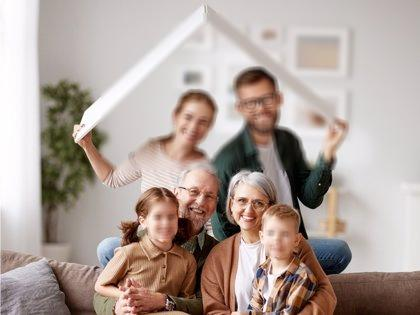
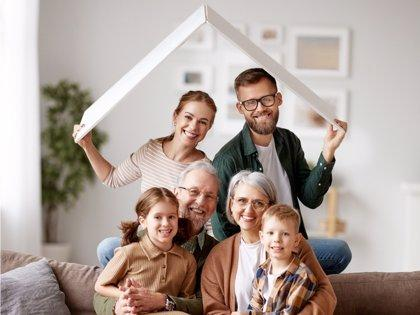
FINISH

diff --git a/django_faces/templates/django_faces_app/panel_imagenes.html b/django_faces/templates/django_faces_app/panel_imagenes.html
@@ -7,17 +7,13 @@
     <title>Panel de imagenes</title>
     <style>
         body {
-            padding-top: 5%;
+            padding-top: 3%;
+            font-family: Arial, sans-serif;
         }
         .row {
             display: flex;
             flex-wrap: wrap;
             justify-content: center;
-        }
-        .thumbnail {
-            display: flex;
-            flex-direction: column;
-            align-items: center;
         }
         .thumbnail a {
             display: flex;
@@ -25,50 +21,100 @@
             align-items: center;
             text-decoration: none;
         }
+        .thumbnail {
+            display: flex;
+            flex-direction: column;
+            align-items: center;
+            border: 1px solid #dddddd;
+            border-radius: 5px;
+            box-shadow: 0 2px 4px rgba(0, 0, 0, 0.1);
+            margin: 10px;
+            padding: 10px;
+            transition: transform 0.2s ease;
+          }
+        
+        .thumbnail:hover {
+        transform: translateY(-5px);
+        box-shadow: 0 5px 10px rgba(0, 0, 0, 0.2);
+        }
+        .caption {
+        margin-top: 6px;
+        margin-bottom: 6px;
+        }
         .thumbnail img {
-            width: 500px;
+            width: 550px;
             height: auto;
+            margin-top:8px;
         }
         .caption p {
-            font-size: 24px;
-            margin-top: 16px;
+            font-size: 28px;
+            
         }
         .button-back {
             display: inline-block;
-            background-color: #0046c8;
-            color: #ffffff;
-            border-radius: 8px;
-            padding: 12px 24px;
+            margin-top: 5px;
+            padding: 10px 20px;
+            background-color: #fff;
+            border: 2px solid #4CAF50;
+            border-radius: 4px;
+            color: #4CAF50;
             font-size: 20px;
-            text-align: center;
+            font-weight: bold;
             text-decoration: none;
-            margin-top: 16px;
+            transition: background-color 0.3s ease, color 0.3s ease;
         }
+        .button-back:hover{
+            background-color: #4CAF50;
+            color: #fff;
+        }
+        .row {
+            display: flex;
+            flex-wrap: wrap;
+            justify-content: center;
+        }
+        
+        .col-md-4 {
+            flex: 0 0 33.33%;
+            max-width: 33.33%;
+            padding: 0 15px;
+        }
+        h1 {
+            font-size: 46px;
+            margin-top: 40px;
+            margin-bottom: 20px;
+        }
+        
     </style>
 </head>
 <body>
     <div class="container">
         <div class="row">
-            <a class="button-back" href="{% url 'index' %}">&lt; Volver al inicio</a>
+            <h1>PANEL DE IMAGENES</h1>
+        </div>
+        <div class="row">
+            <a class="button-back" href="{% url 'index' %}">&lt;- Volver al inicio</a>
         </div>
         <br>
-        {% for imagen in imagenes %}
         <div class="row">
+            {% for imagen in imagenes %}
             <div class="col-md-4">
                 <div class="thumbnail">
                     <a href="../imagen/{{ imagen.id }}">
+                        <div class="caption">
+                            <p>La imagen número <b>{{ imagen.id }}</b></p>
+                        </div>
+                        <img src="{{ imagen.archivo.url }}" alt="img">
+                        <p>IMAGEN NORMAL</p>
                         {% if imagen.archivoBlur %}
                         <img src="{{ imagen.archivoBlur.url }}" alt="img">
+                        <p>IMAGEN BLUR</p>
                         {% endif %}
-                        <img src="{{ imagen.archivo.url }}" alt="img">
-                        <div class="caption">
-                            <p>{{ imagen.id }}</p>
-                        </div>
                     </a>
                 </div>
             </div>
+            {% endfor %}
         </div>
-        {% endfor %}
     </div>
+    
 </body>
 </html>

diff --git a/django_faces/templates/django_faces_app/imagen.html b/django_faces/templates/django_faces_app/imagen.html
@@ -7,20 +7,106 @@
     <script src="https://code.jquery.com/jquery-3.6.0.min.js"></script> <!-- JCROP IMPORTACIÓN-->
     <link rel="stylesheet" href="https://unpkg.com/jcrop/dist/jcrop.css"/>
     <script src="https://unpkg.com/jcrop"></script>
-    <title>Document</title>
+    <title>Imagen</title>
+    <style>
+      body {
+        padding-top: 5%;
+        font-family: Arial, sans-serif;
+      }
+      #target {
+          width: auto;
+          height: auto;
+      }
+      #blur {
+          display: inline-block;
+          margin-top: 20px;
+          background-color: #fff;
+          border: 2px solid #4CAF50;
+          border-radius: 4px;
+          color: #4CAF50;
+          font-size: 20px;
+          font-weight: bold;
+          text-decoration: none;
+          transition: background-color 0.3s ease, color 0.3s ease;
+      }
+      #blur:hover {
+          background-color: #4CAF50;
+          color: #fff;
+          cursor:pointer;
+      }
+      .row {
+        display: flex;
+        flex-wrap: wrap;
+        justify-content: center;
+      }
+      .col-md-4 {
+        flex: 0 0 95.33%;
+        max-width: 95.33%;
+        padding: 0 15px;
+      }
+
+      .thumbnail {
+        display: flex;
+        flex-direction: column;
+        align-items: center;
+        border: 1px solid #dddddd;
+        border-radius: 5px;
+        box-shadow: 0 2px 4px rgba(0, 0, 0, 0.1);
+        margin: 10px;
+        padding: 10px;
+        transition: transform 0.2s ease;
+      }
+      p{
+        padding: 0px 15px 0px 15px;
+      }
+      h1{
+        margin-top:-40px
+      }
+      .button-back {
+        display: inline-block;
+        margin-top: 5px;
+        padding: 10px 20px;
+        background-color: #fff;
+        border: 2px solid #4CAF50;
+        border-radius: 4px;
+        color: #4CAF50;
+        font-size: 20px;
+        font-weight: bold;
+        text-decoration: none;
+        transition: background-color 0.3s ease, color 0.3s ease;
+    }
+    .button-back:hover{
+        background-color: #4CAF50;
+        color: #fff;
+    }
+    </style>
 </head>
+
 <body>
-    {% if imagen.archivoBlur %}
-      <img src="{{ imagen.archivoBlur.url }}" />
-      <br>
-      <br>
-    {% endif %}
-      <img src="{{ imagen.archivo.url }}" id="target" />
-      <br />
-    <button id="blur">
-        BLUR
-    </button>
+  <div class="row">
+    <h1>CONTROL DE IMAGEN {{ imagen.id }}</h1>
+  </div>
+  <div class="row">
+    <a class="button-back" href="{% url 'panel_imagenes' %}">&lt;- Volver al panel de imagenes</a>
+  </div>
+  <div class="row">
+    <div class="col-md-4">
+      <div class="thumbnail">
+        {% if imagen.archivoBlur %}
+          <img src="{{ imagen.archivoBlur.url }}" />
+            <p>IMAGEN BLUR</p>
+          <br>
+        {% endif %}
+          <img src="{{ imagen.archivo.url }}" id="target" />
+          <p>IMAGEN NORMAL</p>
+        <button id="blur" class="button-back">
+            <p>BLUR</p>
+        </button>
+      </div>
+    </div>
+  </div>
 </body>
+
 <script defer>
     const jcrop = Jcrop.attach("target", {
         multi: true, /* VARIOS RECORTES */
@@ -44,7 +130,7 @@
         jcrop.newWidget(Jcrop.Rect.create(left, top, width, height), {});
     }
     }
-
+    
     processImage();
 
     const send = async (coords) => {
@@ -61,15 +147,12 @@
       };
       return fetch(`/blur/${id}`, options)
   }
-
-
     $("#blur").click(async () => {
       let crops = jcrop.crops;
       const coords = []
       crops.forEach((crop) => {
         coords.push({x: crop.pos.x, y: crop.pos.y, w: crop.pos.w, h: crop.pos.h})
       });
-      /*console.log(coords);*/
       await send(coords);
       window.location.reload();
     });

diff --git a/django_faces/templates/django_faces_app/index.html b/django_faces/templates/django_faces_app/index.html
@@ -9,6 +9,7 @@
         body {
             background-color: #f8f8f8;
             font-family: Arial, sans-serif;
+            padding-top: 3%;
         }
         #container {
             text-align: center;
@@ -17,7 +18,7 @@
         h1 {
             font-size: 36px;
             margin-top: 40px;
-            margin-bottom: 20px;
+            margin-bottom: 30px;
         }
         form {
             text-align: center;
@@ -74,6 +75,11 @@
             <input class="submit" type="submit" value="Cargar imagen" />
         </form>
         <a id="panel-button" href="{% url 'panel_imagenes' %}">Ver panel de imágenes</a>
+        <p style="margin-top:50px"><b>NOTA IMPORTANTE:</b></p>
+        <p>Hay veces, que dado el propio navegador, no funciona el blur y hay que hacer control+F5 para reiniicar la pagina eliminando la cache para que funcione correctamente</p>
+         <p>Hemos dejado la imagen 4 sin blurear para que se vea que se puede hacer sin problema</p>
+        <p>A imagenes ya blureadas, se sobreescribe el blur</p>
+        
     </div>
 </body>
 </html>
